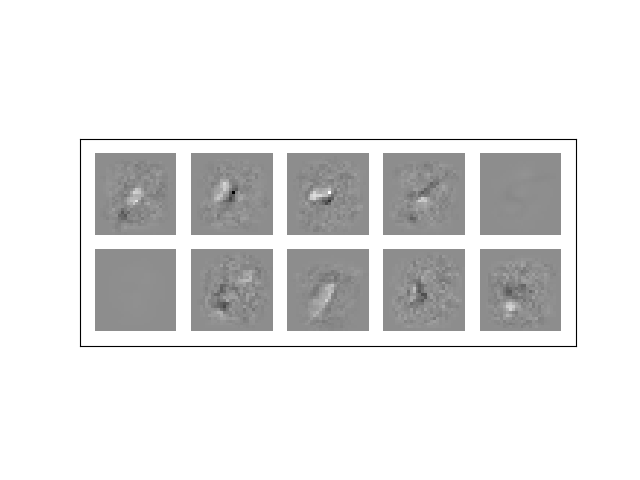
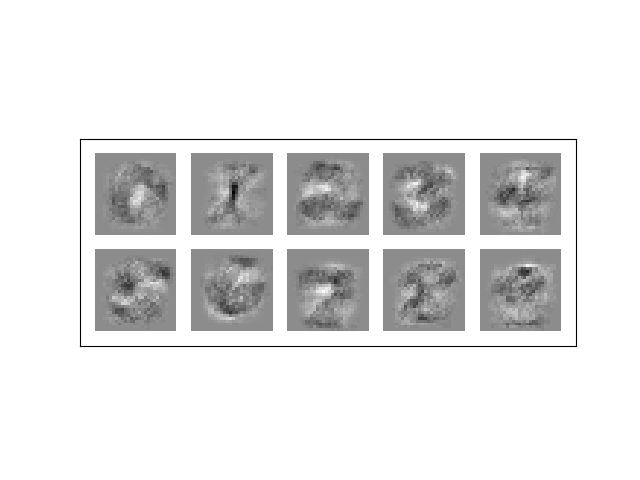
more experimenta

diff --git a/cleaning.py b/cleaning.py
@@ -2,7 +2,7 @@ from __future__ import absolute_import
 from __future__ import print_function
 from future.standard_library import install_aliases
 import autograd.numpy as np
-from tree import NoisyLabeler
+from labeler import NoisyLabeler
 from autograd.scipy.misc import logsumexp
 from autograd import grad
 from util import data_reader, image_saver
@@ -15,7 +15,7 @@ class Cleaner():
         reader = data_reader()
         n, a, b, c, d = reader.load_mnist()
 
-        noisy = NoisyLabeler(a, b, c, d)
+        noisy = NoisyLabeler(a, b, c, d, power_level=9)
         noisy.power_level()
         a, bad, c, dad = noisy.get_noisy_train_valid()
 
@@ -41,14 +41,21 @@ class Cleaner():
     def train_logistic(self, learning_rate=0.01, epoch=500):
         gradient = grad(self.weighted_likelihood, argnum=2)
         gradient_theta = grad(self.weighted_likelihood, argnum=3)
-        for i in range(epoch):
+        for i in range(50):
             print("This is iteration {}.".format(i))
             self.w += gradient(self.train_data, self.train_labels, self.w,
                                self.theta, self.logistic_likelihood) * learning_rate
         for i in range(100):
             print("This is iteration {} optimizing theta.".format(i))
             self.theta += gradient_theta(self.train_data, self.train_labels,
-                                         self.w, self.theta, self.logistic_likelihood) * 0.0001
+                                         self.w, self.theta, self.logistic_likelihood) * 0.00001
+            # normalize theta
+            self.theta = (self.theta.T / np.sum(self.theta, axis=1)).T
+
+        for i in range(epoch - 50):
+            print("This is iteration {}.".format(i))
+            g = gradient(self.train_data, self.train_labels, self.w, self.theta, self.logistic_likelihood)
+            self.w += g * learning_rate
         print(self.theta)
         return self.w
 
@@ -88,9 +95,9 @@ def predictive_accuracy(proposed, true):
 
 
 if __name__ == '__main__':
-    # cleaner = Cleaner(np.eye(10))
-    cleaner = Cleaner(np.eye(10) * 0.8 + 0.02)
-    cleaner.train_logistic(learning_rate=0.001, epoch=500)
+    cleaner = Cleaner(np.eye(10))
+    # cleaner = Cleaner(np.eye(10) * 0.8 + 0.02)
+    cleaner.train_logistic(learning_rate=0.001, epoch=150)
     cleaner.metrics()
     saver = image_saver()
-    saver.save_images(cleaner.w, 'theta')
+    saver.save_images(cleaner.w, 'theta_train')

diff --git a/labeler.py b/labeler.py
@@ -1,18 +1,20 @@
-from sklearn import tree
+from sklearn.linear_model import LogisticRegression
 import autograd.numpy as np
 from sklearn.metrics import accuracy_score
 
 
 class NoisyLabeler():
 
-    def __init__(self, train_data, train_labels, valid_data, valid_labels):
+    def __init__(self, train_data, train_labels, valid_data, valid_labels, power_level=7):
 
         print('=== Loading and Training the Labeler ===')
         self.train_data = train_data
         self.train_labels = np.argmax(train_labels, axis=1)
         self.valid_data = valid_data
         self.valid_labels = np.argmax(valid_labels, axis=1)
-        self.clf = tree.DecisionTreeClassifier(criterion='entropy', splitter='best', max_depth=4, min_samples_split=2, min_samples_leaf=1, min_weight_fraction_leaf=0.0, max_features=None, random_state=None, max_leaf_nodes=None, min_impurity_split=1e-07, class_weight=None, presort=False)
+
+        self.clf = LogisticRegression(penalty='l2', dual=False, tol=0.0001, C=1.0, fit_intercept=True, intercept_scaling=1, class_weight=None, random_state=None, solver='liblinear', max_iter=5, multi_class='ovr', verbose=0, warm_start=False, n_jobs=1)
+
         self.clf = self.clf.fit(self.train_data, self.train_labels)
 
         print('=== Labeling Using the Labeler ===')
